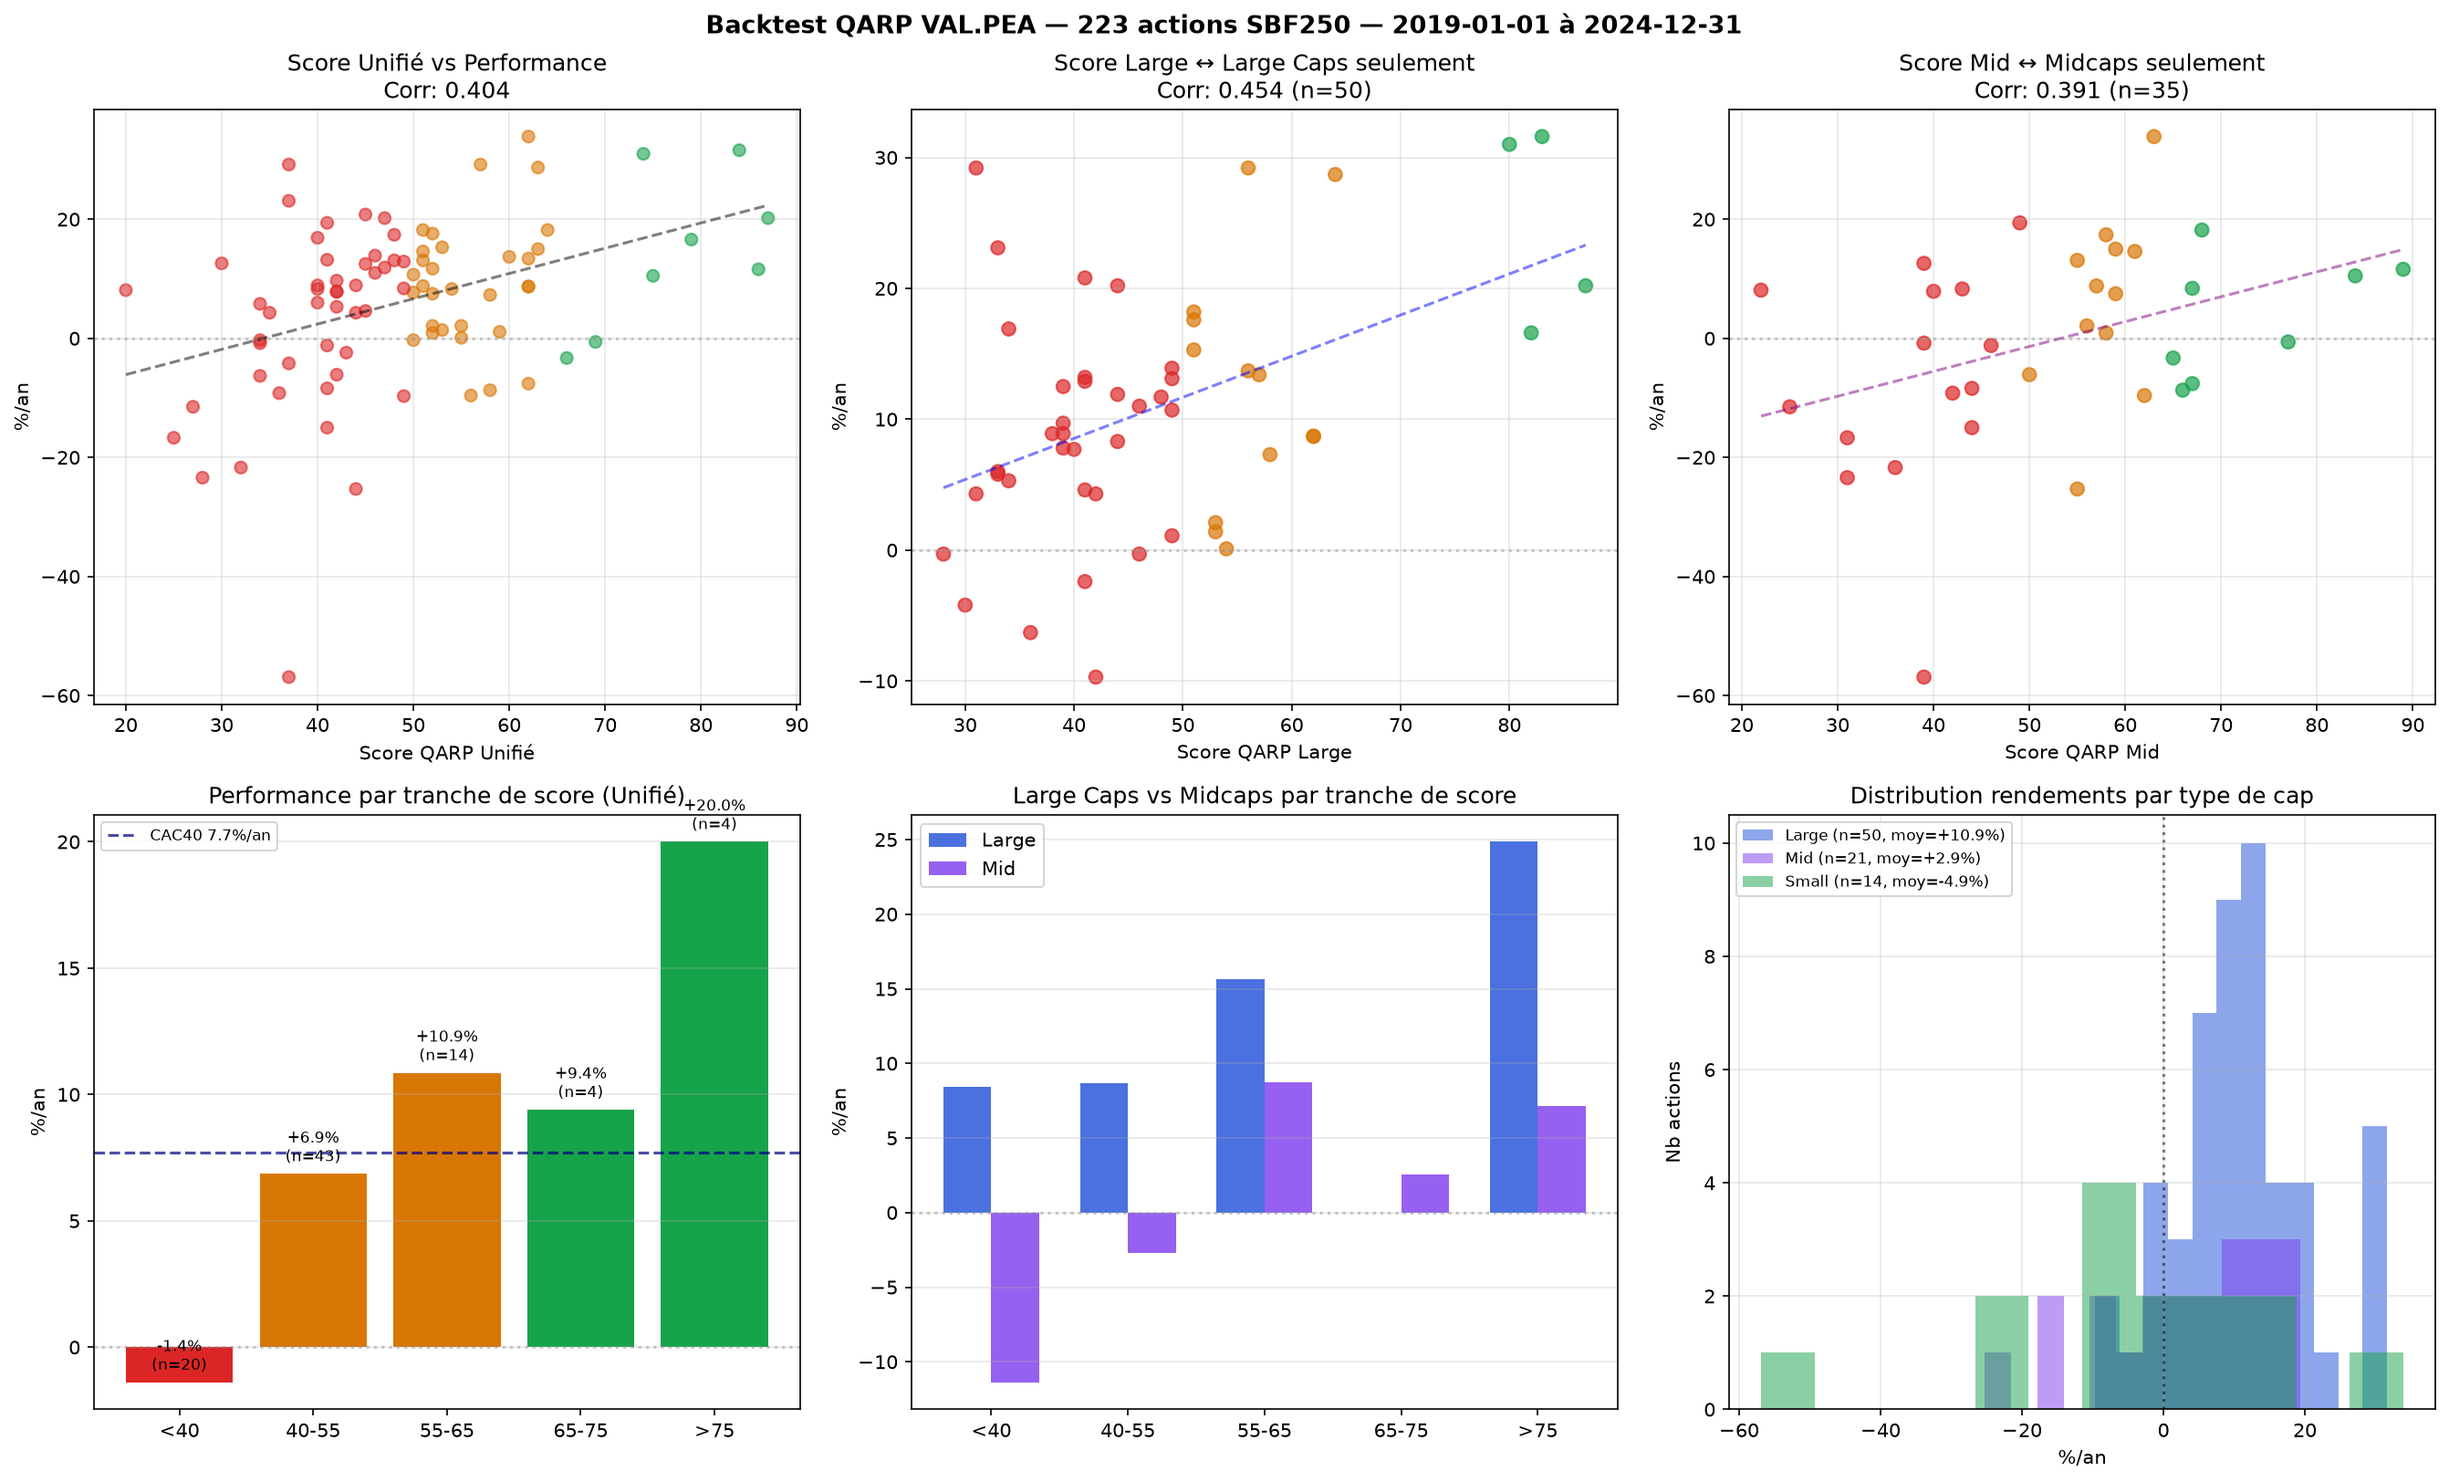
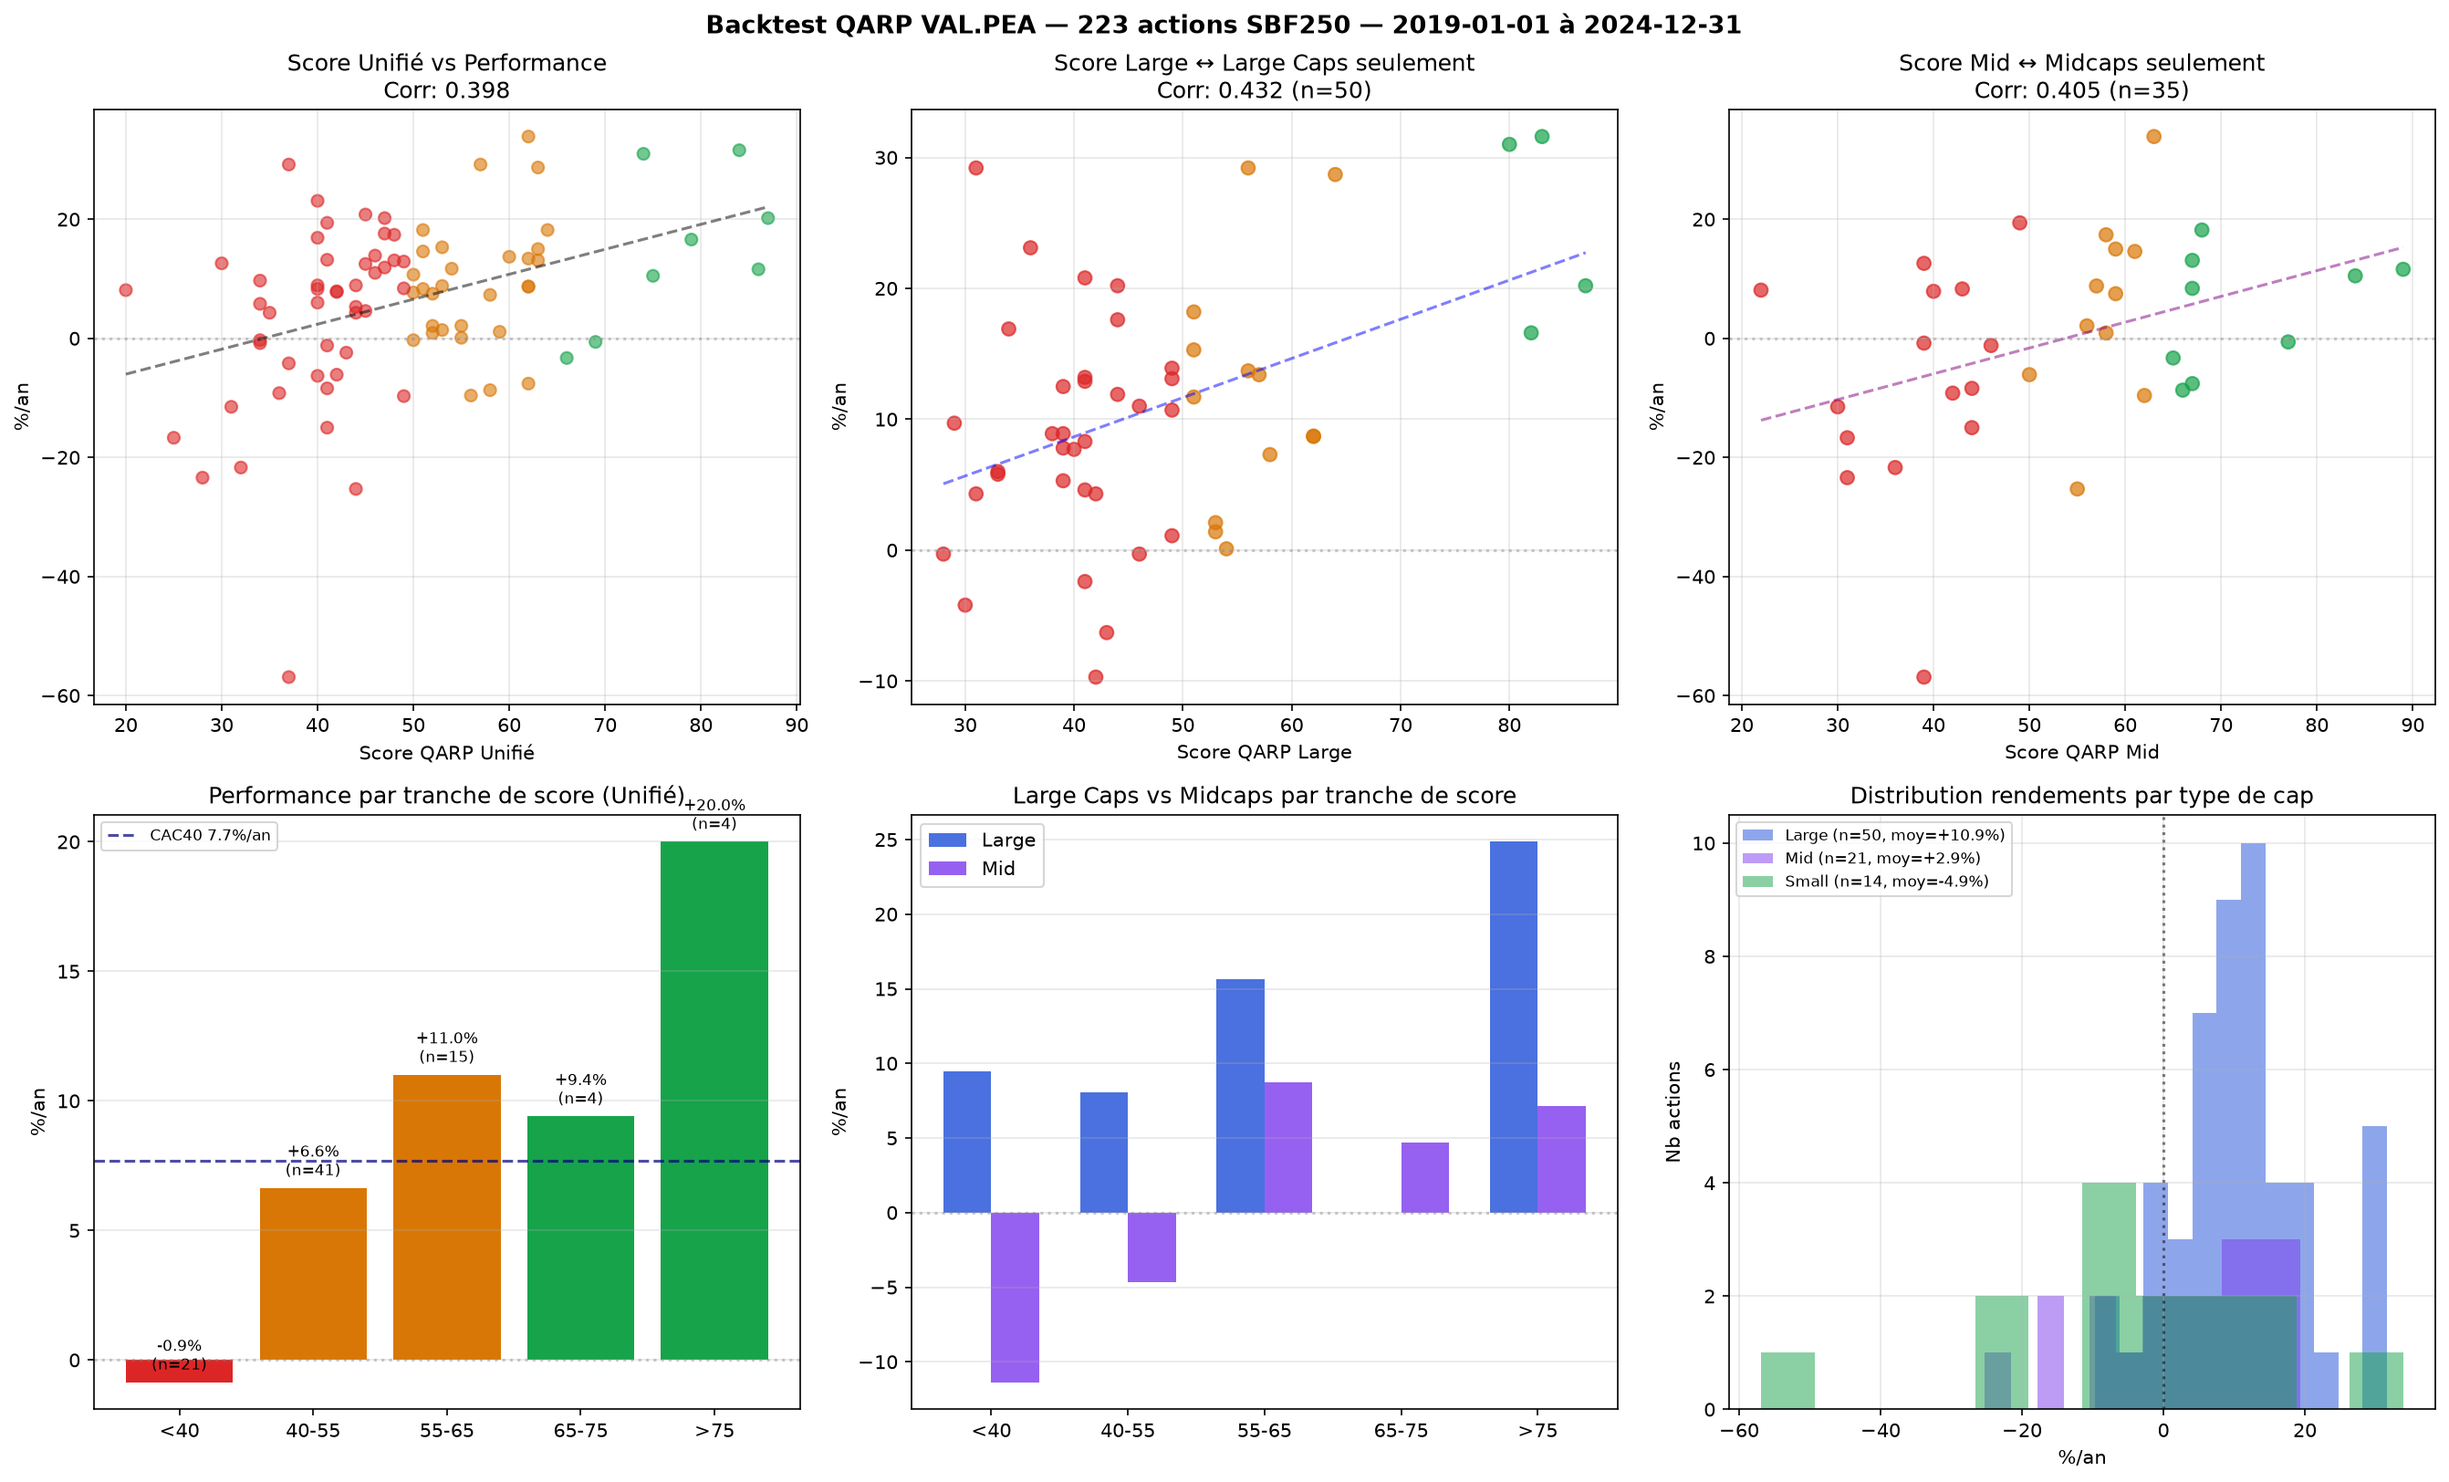
📈 Backtest QARP 2026-09-01 [skip ci]

diff --git a/backtest_history.md b/backtest_history.md
@@ -29,3 +29,30 @@ CONCLUSIONS
    Croiss.CA       corrél=0.215  → suggère ~14 pts
    Croiss.BPA      corrél=0.015  → suggère ~1 pts
 ```
+
+## 2026-09-01
+
+```
+CONCLUSIONS
+=================================================================
+
+1. Score Unifié : corrél. 0.398
+   ✅ Modèle valide
+
+2. Alpha Score ≥65 vs Score <50 : +11.6%/an
+   ✅ Alpha significatif
+
+3. Large Caps (n=50) :
+   Score Large corrél. 0.432
+
+4. Midcaps (n=35) :
+   Score Mid corrél. 0.405
+
+5. Poids optimaux suggérés (à implémenter dans calcQARPLarge) :
+   PE fwd          corrél=0.406  → suggère ~26 pts
+   ROE             corrél=0.324  → suggère ~21 pts
+   Dette           corrél=0.297  → suggère ~19 pts
+   Marge           corrél=0.285  → suggère ~19 pts
+   Croiss.CA       corrél=0.215  → suggère ~14 pts
+   Croiss.BPA      corrél=0.011  → suggère ~1 pts
+```
